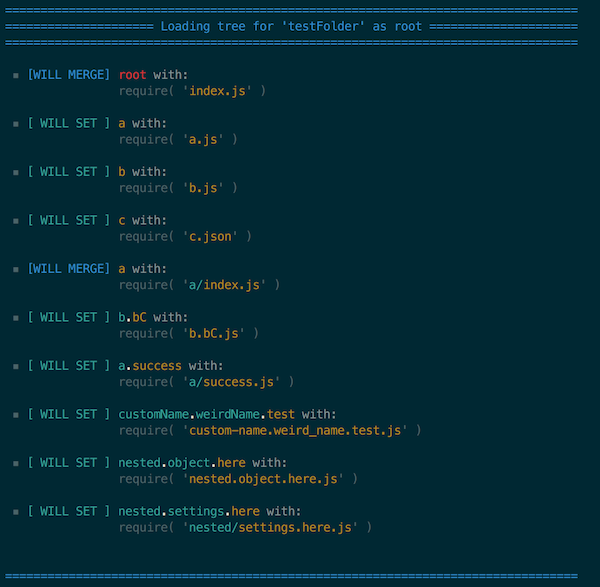
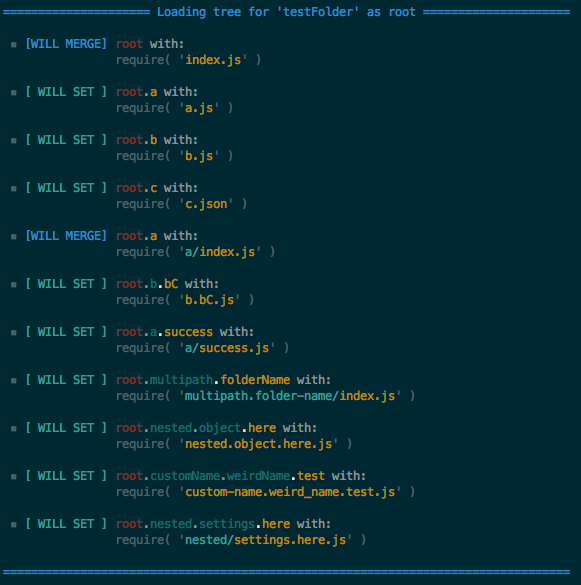
Improve view colors. Always show `root`

diff --git a/lib/view.js b/lib/view.js
@@ -26,6 +26,10 @@ try { painter = require('chalk') } catch (e) {}
  * This will print a clear vision of what's going to be included where
  */
 module.exports = function (folder, opts) {
+  // Make sure we are dealing with the absolute path here
+  folder = utils.absolutePathFor(folder)
+
+  // Get current folder name
   var folderBase = path.basename(folder)
 
   // A few helping variables
@@ -33,10 +37,8 @@ module.exports = function (folder, opts) {
 
   // Logs header
   var header = pad(` Loading tree for '${folderBase}' as root `, 80, '=', true, true)
-  var footer = pad('', header.length, '=', true)
-  console.log(painter.blue(footer))
+  console.log()
   console.log(painter.blue(header))
-  console.log(painter.blue(footer))
   console.log()
     
 
@@ -69,14 +71,14 @@ module.exports = function (folder, opts) {
     info += (willMerge ? painter.blue('[WILL MERGE]') : painter.cyan('[ WILL SET ]'))
 
     // Compile object path
-    info += ' ' + painter.cyan(absNodes.slice(0, -1).join(POINTER))
+    info += ' ' + painter.dim(painter.red('root'))
+    info += absNodes.length > 0 ? painter.dim(POINTER) : ''
+    info += painter.dim(painter.cyan(absNodes.slice(0, -1).join(POINTER)))
 
     // Compile last path (if existent)
     var lastNode = absNodes.slice(-1)[0]
     if (lastNode) {
       info += (absNodes.length > 1 ? POINTER : '') + painter.yellow(lastNode)
-    } else {
-      info += painter.red('root')
     }
 
     // Pad with spaces
@@ -96,7 +98,7 @@ module.exports = function (folder, opts) {
   })
 
   // Logs footer
-  console.log()
+  var footer = pad('', header.length, '=', true)
   console.log(painter.blue(footer))
   console.log()
 }
